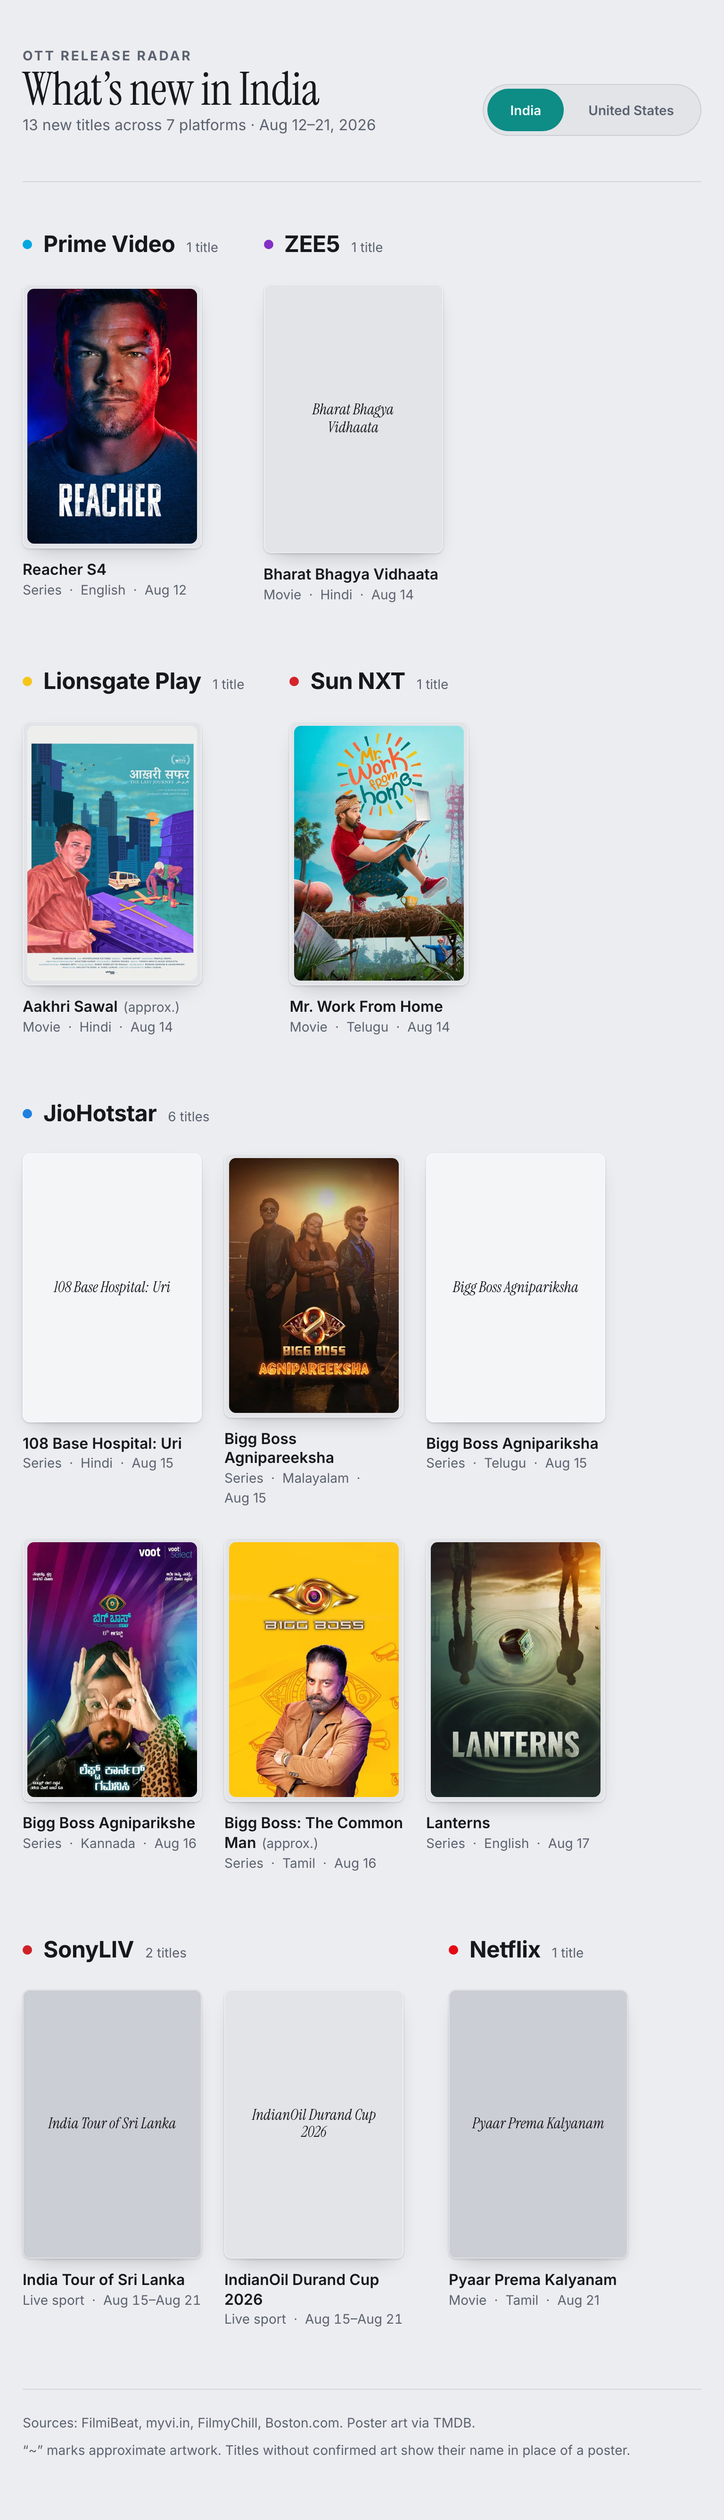
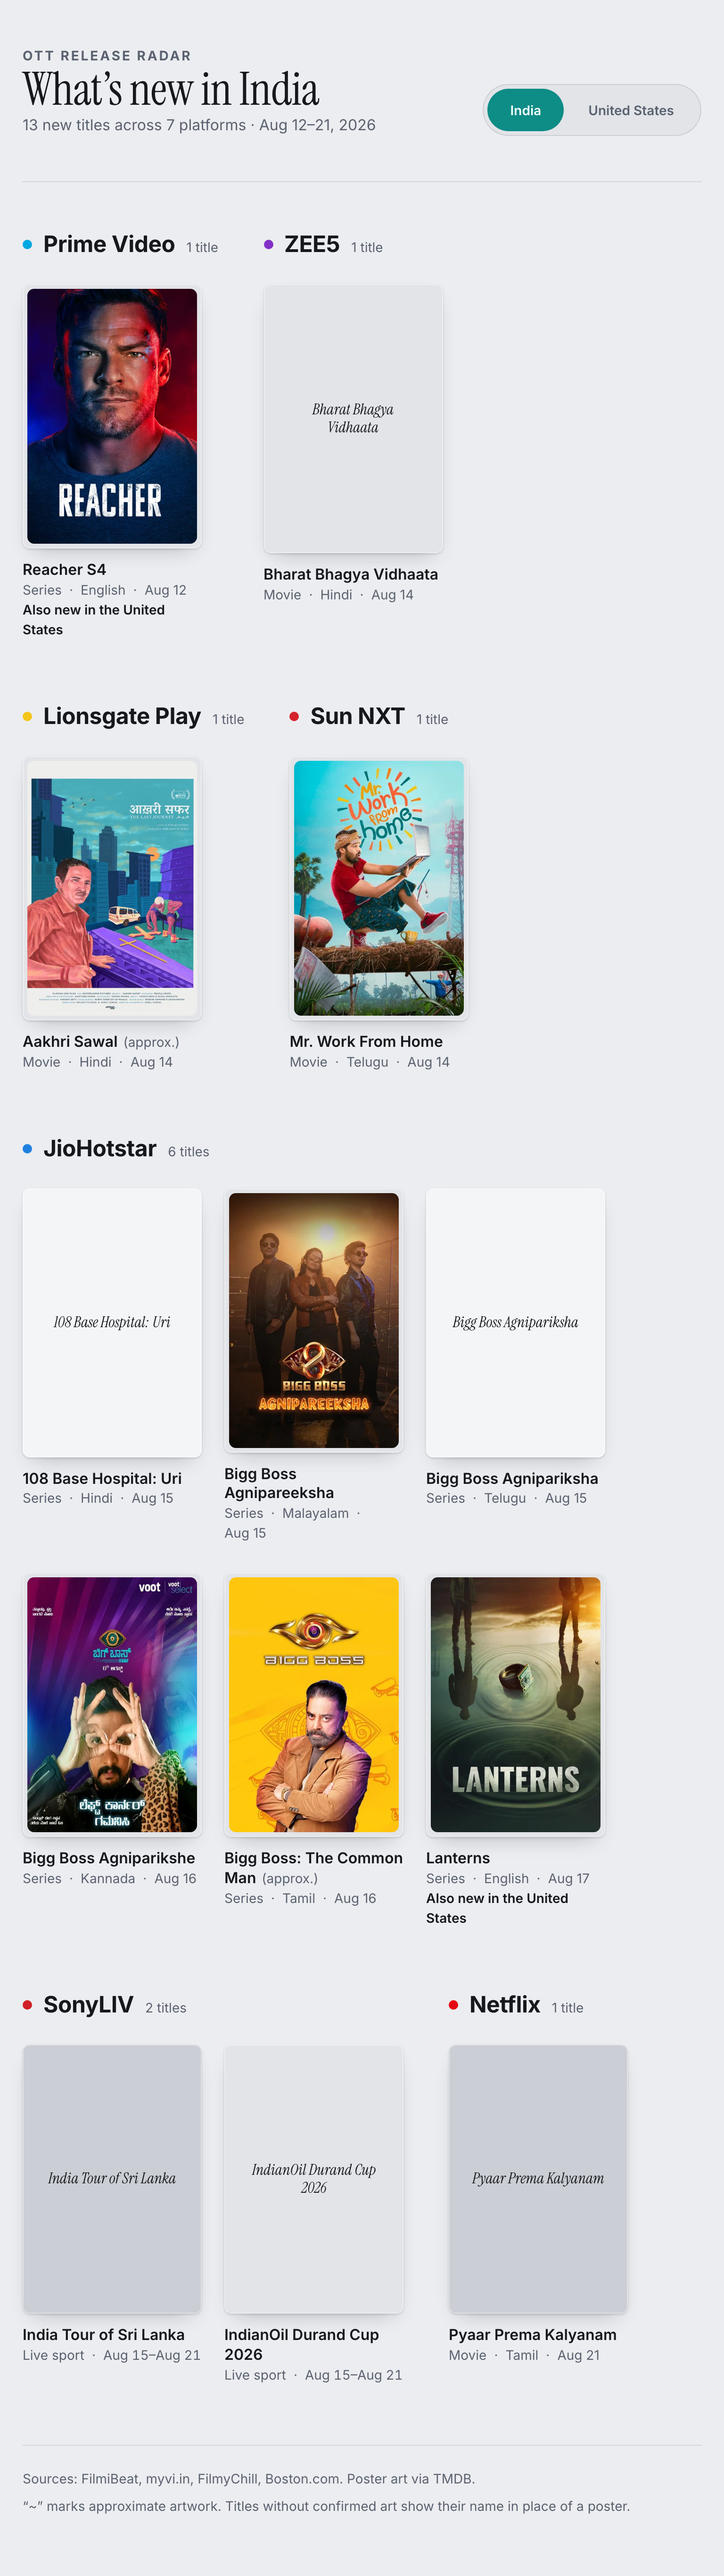
v4: surface cross-region duplicate titles (Reacher S4, Lanterns)
titlesInBothRegions() was exported from lib/regions.js and covered by
tests, but V4.jsx never called it — toggling the region control and
landing on the same poster twice (same title, different platform/date)
read as a bug with no explanation. Cards for cross-listed titles now show
"Also new in {other region}" on their own line.

Claude-Session: https://claude.ai/code/session_01Hkpw3jLNrn5vdHt1hsEo19

diff --git a/lab/src/routes/v4/V4.jsx b/lab/src/routes/v4/V4.jsx
@@ -1,6 +1,6 @@
 import { useMemo, useState } from 'react'
 import { motion } from 'motion/react'
-import { REGIONS, releasesForRegion } from '../../lib/regions.js'
+import { REGIONS, releasesForRegion, titlesInBothRegions } from '../../lib/regions.js'
 import { PLATFORMS, posterUrl } from '../../data/releases.js'
 import './v4.css'
 
@@ -9,6 +9,12 @@ const TYPE_LABEL = { movie: 'Movie', series: 'Series', sport: 'Live sport' }
 // India first: it carries the larger slate this week (13 vs 9) and is the
 // default a returning visitor from the IN catalog would expect.
 const REGION_NAME = { IN: 'India', US: 'the United States' }
+
+// A handful of titles (Reacher S4, Lanterns) release in both catalogs on
+// different platforms and dates. Toggling the region and landing on the same
+// poster again reads as a bug unless the card says why. Computed once: the
+// RELEASES table is static.
+const CROSS_REGION_TITLES = new Set(titlesInBothRegions())
 
 const dateFmt = new Intl.DateTimeFormat('en-US', { month: 'short', day: 'numeric' })
 const dayFmt = new Intl.DateTimeFormat('en-US', { day: 'numeric' })
@@ -109,10 +115,11 @@ function basisFor(count) {
   return cols * CARD_MAX + (cols - 1) * CARD_GAP
 }
 
-function ReleaseCard({ release }) {
+function ReleaseCard({ release, otherRegionName }) {
   const url = posterUrl(release)
   const isRange = Boolean(release.endDate)
   const label = TYPE_LABEL[release.type]
+  const alsoElsewhere = CROSS_REGION_TITLES.has(release.title)
 
   return (
     <figure className="v4-card">
@@ -157,6 +164,9 @@ function ReleaseCard({ release }) {
             </time>
           )}
         </p>
+        {alsoElsewhere && (
+          <p className="v4-cross-region">Also new in {otherRegionName}</p>
+        )}
       </figcaption>
     </figure>
   )
@@ -170,6 +180,7 @@ export default function V4() {
     const { min, max } = computeRange(releases)
     return formatRange(min, max)
   }, [releases])
+  const otherRegionName = REGION_NAME[region === 'IN' ? 'US' : 'IN']
 
   return (
     <div className="v4-page">
@@ -206,7 +217,7 @@ export default function V4() {
               </header>
               <div className="v4-grid">
                 {group.items.map((r) => (
-                  <ReleaseCard key={r.id} release={r} />
+                  <ReleaseCard key={r.id} release={r} otherRegionName={otherRegionName} />
                 ))}
               </div>
             </section>

diff --git a/lab/src/routes/v4/v4.css b/lab/src/routes/v4/v4.css
@@ -350,6 +350,18 @@ main {
   font-variant-numeric: tabular-nums;
 }
 
+/* Surfaces the handful of titles (Reacher S4, Lanterns) that release in both
+   catalogs on different platforms/dates — without this, toggling regions and
+   landing on the same poster again reads as a bug, not a real overlap. Own
+   line rather than folded into .v4-meta: that row already wraps tightly at
+   150px card widths, and the label is longer than the metadata it sits near. */
+.v4-cross-region {
+  margin-top: var(--sp-1);
+  font-size: var(--fs-0);
+  font-weight: 600;
+  color: var(--text);
+}
+
 /* -------------------------------------------------------------- foot */
 
 .v4-foot {
